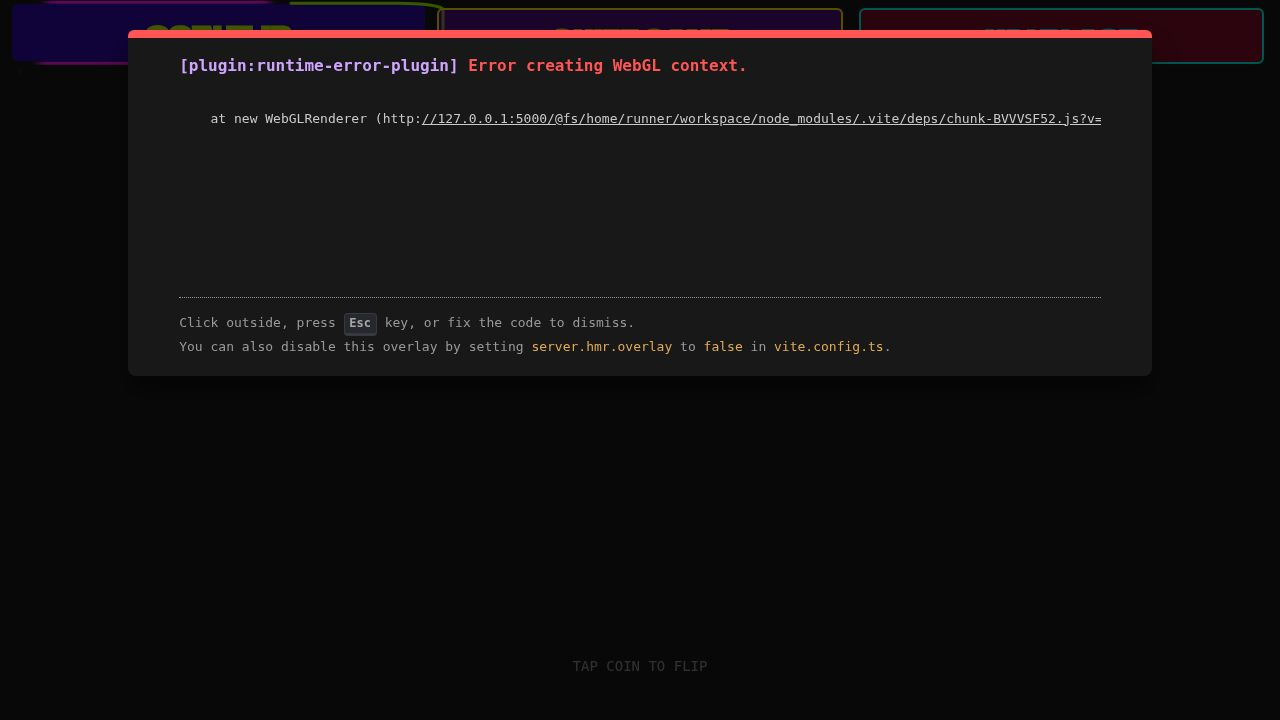
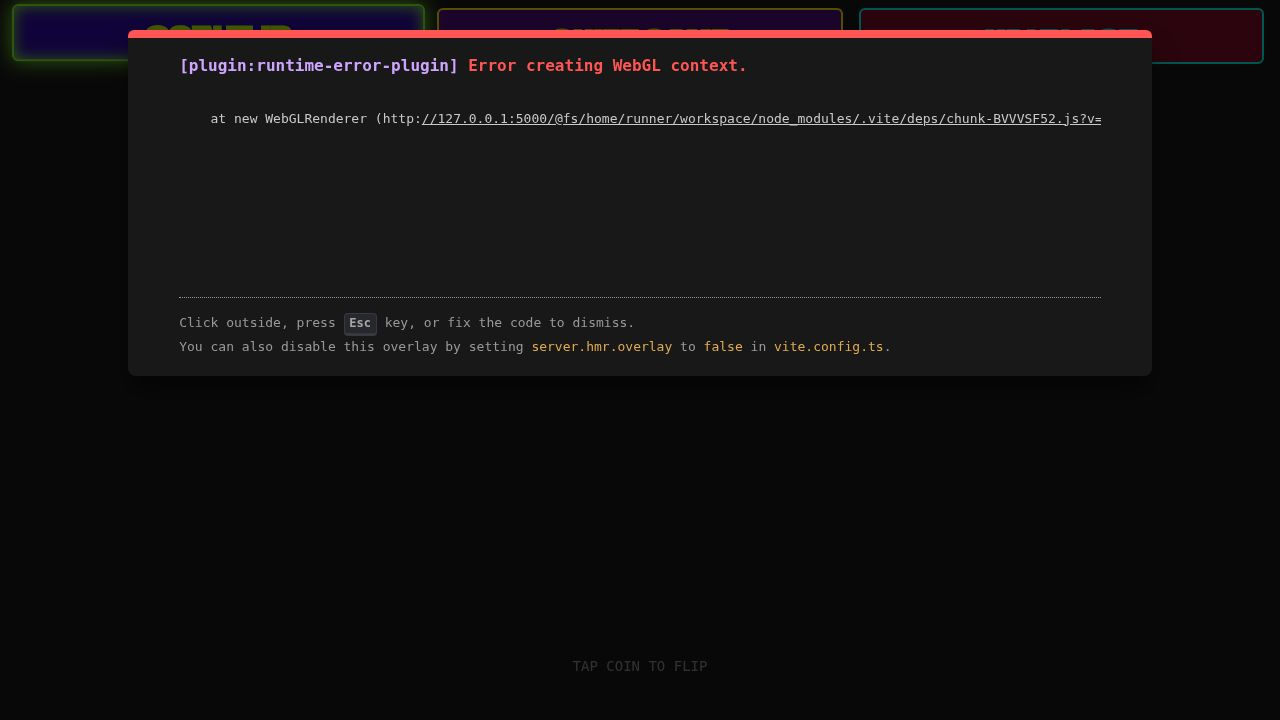
Update button colors for Tic Tac Toe game navigation
Update the text colors for the Tic Tac Toe game tab component in Home.tsx, setting inactive textColor to '#6c00ff' and activeTextColor to '#0000ff'.

Replit-Commit-Author: Agent
Replit-Commit-Session-Id: 6f7017ab-7123-4df3-922b-46ea2b766e4a
Replit-Commit-Checkpoint-Type: full_checkpoint
Replit-Commit-Event-Id: a294c1ba-1c9c-4bf3-9ae2-b711468f0a16
Replit-Commit-Screenshot-Url: https://storage.googleapis.com/screenshot-production-us-central1/276e9902-4f5b-442f-8093-76466617e840/6f7017ab-7123-4df3-922b-46ea2b766e4a/UqOv6a4
Replit-Helium-Checkpoint-Created: true

Changed region(s): [[0.0, 0.0, 0.3438, 0.0917]]

diff --git a/client/src/pages/Home.tsx b/client/src/pages/Home.tsx
@@ -67,7 +67,8 @@ export default function Home() {
                     onClick={() => setActiveGame('tic-tac-toe')}
                     label="larong Tic Tac Toe sa papel"
                     bgColor="#FF9500" // Neon Orange
-                    textColor="#8A2BE2" // Blue Violet
+                    textColor="#6c00ff"
+                    activeTextColor="#0000ff"
                     className="w-auto"
                 />
             </div>
@@ -96,7 +97,7 @@ export default function Home() {
   );
 }
 
-function GameTab({ active, onClick, label, bgColor, textColor, className = "" }: { active: boolean, onClick: () => void, label: string, bgColor: string, textColor: string, className?: string }) {
+function GameTab({ active, onClick, label, bgColor, textColor, activeTextColor, className = "" }: { active: boolean, onClick: () => void, label: string, bgColor: string, textColor: string, activeTextColor?: string, className?: string }) {
     // Helper to convert hex to rgba
     const hexToRgba = (hex: string, alpha: number) => {
         const r = parseInt(hex.slice(1, 3), 16);
@@ -180,7 +181,7 @@ function GameTab({ active, onClick, label, bgColor, textColor, className = "" }:
             <motion.span 
                 className={`w-full break-words relative z-10 block`}
                 style={{
-                    color: active ? getInverseColor(bgColor) : textColor,
+                    color: active ? (activeTextColor || getInverseColor(bgColor)) : textColor,
                     filter: active ? 'none' : 'none',
                     fontWeight: active ? '900' : 'normal'
                 }}
